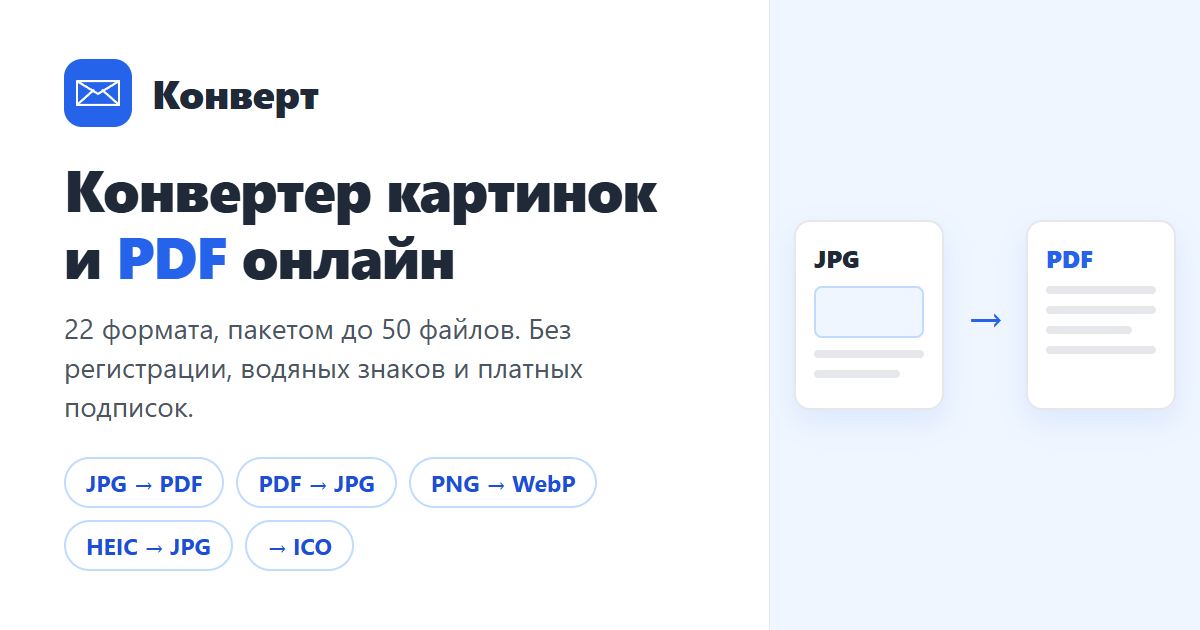
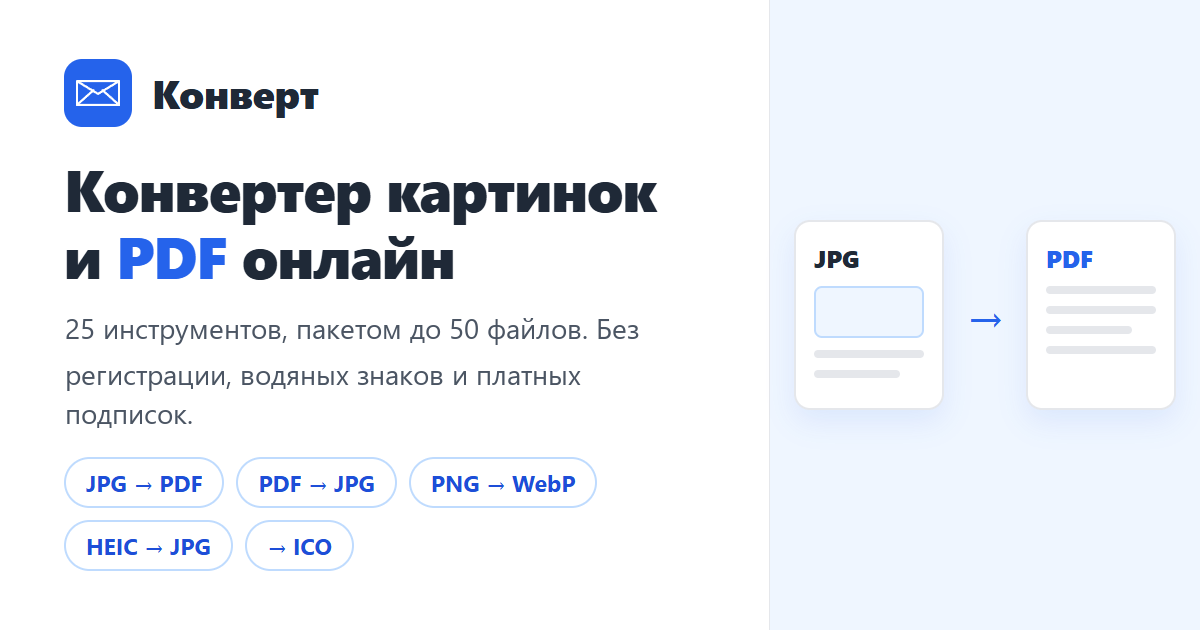
feat: add tiff-to-pdf and bmp-to-pdf tools and update og-image

Changed region(s): [[0.0308, 0.573, 0.4933, 0.6937], [0.0617, 0.4825, 0.555, 0.5429]]

diff --git a/frontend/src/config/tools.js b/frontend/src/config/tools.js
@@ -158,6 +158,82 @@ export const SUPPORTED_TOOLS = {
       },
     ],
   },
+  'tiff-to-pdf': {
+    source: 'tiff',
+    target: 'pdf',
+    sourceName: 'TIFF',
+    targetName: 'PDF',
+    accept: '.tiff,.tif',
+    maxFiles: 20,
+    icon: '📑',
+    category: 'pdf',
+    description: 'Объединяйте многостраничные сканы и файлы TIFF в один компактный PDF.',
+    steps: [
+      'Загрузите файлы TIFF или TIF — перетащите сканы в окно конвертера или выберите на компьютере (до 20 файлов).',
+      'Настройте порядок страниц перетаскиванием и нажмите «Конвертировать»: все сканы объединятся в книжный формат A4.',
+      'Скачайте готовый PDF: изображения собраны в единый аккуратный документ, готовый к отправке или печати.',
+    ],
+    about: [
+      'Формат TIFF (Tagged Image File Format) традиционно применяется в полиграфии, инженерных чертежах и офисных сканерах благодаря сохранению максимальной детализации без потерь. Однако файлы TIFF имеют большой вес, не поддерживаются многими мобильными устройствами и редко принимаются веб-формами госорганов. Наш онлайн-конвертер решает эту проблему, преобразуя сканы TIFF в общепринятый компактный формат PDF.',
+      'Каждое изображение TIFF помещается на отдельный лист стандарта A4 (210×297 мм) с сохранением исходных пропорций и ориентации. Растровые данные переносятся без ухудшения четкости, поэтому мелкий текст договоров, печати и штампы остаются идеально разборчивыми. Вы можете загрузить до 20 файлов общим весом до 50 МБ и объединить их в один многостраничный PDF-файл бесплатно и без регистрации.',
+    ],
+    faq: [
+      {
+        q: 'Как конвертировать скан TIFF в формат PDF онлайн?',
+        a: 'Добавьте один или несколько файлов .tiff/.tif в зону загрузки, выстройте нужный порядок страниц и нажмите «Конвертировать». Через несколько секунд вы сможете скачать готовый PDF-документ.',
+      },
+      {
+        q: 'Поддерживается ли объединение нескольких TIFF в один PDF?',
+        a: 'Да, вы можете загрузить до 20 файлов TIFF одновременно (общим объемом до 50 МБ). Все они будут объединены в один многостраничный PDF в заданном вами порядке.',
+      },
+      {
+        q: 'Сохранится ли четкость текста и печатей при конвертации?',
+        a: 'Да, алгоритм переносит растровое изображение в PDF без повторного пережатия с потерями. Текст, подписи, таблицы и штампы сохраняют исходную четкость сканирования.',
+      },
+      {
+        q: 'Подойдет ли готовый PDF для отправки в налоговую или суд?',
+        a: 'Да, на выходе формируется стандартный PDF-документ со страницами книжного формата A4, полностью соответствующий требованиям электронного документооборота и госуслуг.',
+      },
+    ],
+  },
+  'bmp-to-pdf': {
+    source: 'bmp',
+    target: 'pdf',
+    sourceName: 'BMP',
+    targetName: 'PDF',
+    accept: '.bmp',
+    maxFiles: 20,
+    icon: '📐',
+    category: 'pdf',
+    description: 'Преобразуйте несжатые растровые изображения BMP в удобный документ PDF.',
+    steps: [
+      'Выберите файлы BMP на диске или перетащите их мышью в форму загрузки — до 20 изображений за раз.',
+      'Упорядочите страницы при необходимости и нажмите «Конвертировать»: каждый BMP-кадр займет свою страницу A4.',
+      'Скачайте готовый PDF файл: вы получаете единый компактный документ вместо разрозненных тяжелых файлов BMP.',
+    ],
+    about: [
+      'Формат BMP (Bitmap Picture) хранит изображение в виде несжатой матрицы пикселей, из-за чего файлы имеют огромный размер и неудобны для пересылки по почте или загрузки на сайты. Конвертация BMP в PDF позволяет упаковать тяжелые изображения в стандартизированный цифровой контейнер с оптимизацией размера, сохраняя при этом каждый пиксель исходника.',
+      'В готовом документе все страницы имеют книжный формат A4. Изображение вписывается в лист целиком с сохранением пропорций, свободные поля остаются белыми. Инструмент отлично подходит для оцифрованных схем, скриншотов и графиков. За одну операцию можно объединить до 20 файлов BMP общим объемом до 50 МБ.',
+    ],
+    faq: [
+      {
+        q: 'Зачем конвертировать BMP в PDF?',
+        a: 'Файлы BMP занимают очень много дискового пространства и часто не открываются на смартфонах. Формат PDF уменьшает итоговый размер для пересылки и открывается абсолютно на любом устройстве.',
+      },
+      {
+        q: 'Сколько файлов BMP можно объединить в один PDF?',
+        a: 'Вы можете добавить до 20 изображений BMP общим объемом до 50 МБ за один сеанс. Они соберутся в единый многостраничный документ.',
+      },
+      {
+        q: 'Ухудшится ли качество графики при переносе в PDF?',
+        a: 'Нет, растровые данные встраиваются в PDF в исходном разрешении без искажений и артефактов сжатия.',
+      },
+      {
+        q: 'Можно ли изменить последовательность страниц в документе?',
+        a: 'Да, в списке добавленных файлов строки можно свободно перетаскивать мышью или касанием на смартфоне, чтобы задать нужную очередность страниц.',
+      },
+    ],
+  },
   'pdf-to-jpg': {
     source: 'pdf',
     target: 'jpg',

diff --git a/frontend/src/components/MainLayout.jsx b/frontend/src/components/MainLayout.jsx
@@ -153,7 +153,7 @@ export default function MainLayout({ children }) {
   // Панели меню всегда смонтированы, а закрытая скрывается через visibility, а не
   // размонтированием: prerender отдаёт статический HTML без JavaScript, и если
   // ссылки живут только в открытом дропдауне, робот видит сайт из трёх страниц —
-  // 23 инструмента остаются без единственной внутренней ссылки. visibility:hidden
+  // 25 инструментов остаются без единственной внутренней ссылки. visibility:hidden
   // при этом снимает их и из Tab-порядка, и с пути курсора.
   const dropdownPanelClass = (open) =>
     `absolute left-1/2 -translate-x-1/2 mt-3 w-[25rem] max-h-[70vh] overflow-y-auto grid grid-cols-2 gap-x-2 gap-y-0.5 bg-main rounded-xl border border-ui-border p-2 z-50 text-text-primary shadow-lg [scrollbar-width:thin] [&::-webkit-scrollbar]:w-1 [&::-webkit-scrollbar-track]:bg-transparent [&::-webkit-scrollbar-thumb]:bg-ui-border [&::-webkit-scrollbar-thumb]:rounded-full ${open ? 'visible animate-fadeIn' : 'invisible'}`;

diff --git a/backend/converter/tests.py b/backend/converter/tests.py
@@ -196,6 +196,22 @@ class ImagesToPdfAPITestCase(ConverterAPITestBase):
         self.assertEqual(pdf_content[:4], b'%PDF')
         self.assertEqual(download_response['Content-Type'], 'application/pdf')
 
+    def test_tiff_and_bmp_sources_are_accepted(self):
+        """TIFF и BMP — сканы и растр: страницы tiff-to-pdf и bmp-to-pdf собирают документ."""
+        url = reverse('images_to_pdf')
+        data = {
+            'images': [
+                self.make_upload('scan.tiff', 'TIFF'),
+                self.make_upload('drawing.bmp', 'BMP'),
+            ]
+        }
+
+        download_response = self.submit_and_download(url, data)
+        pdf_content = b''.join(download_response.streaming_content)
+
+        self.assertEqual(pdf_content[:4], b'%PDF')
+        self.assertEqual(download_response['Content-Type'], 'application/pdf')
+
     def test_pdf_all_pages_use_portrait_a4(self):
         """Portrait и landscape изображения → все страницы portrait A4."""
         url = reverse('images_to_pdf')

diff --git a/README.md b/README.md
@@ -2,7 +2,7 @@
 
 Рабочий сайт: https://convefy.ru — это тот же код, что в репозитории.
 
-23 инструмента на сайте (26 индексируемых страниц): jpg→pdf, png→jpg, heic→pdf, конвертация в
+25 инструментов на сайте (28 индексируемых страниц): jpg→pdf, png→jpg, heic→pdf, конвертация в
 webp, PDF в картинки и другие. Файл загружается на сервер, там собирается задача Celery, статус
 опрашивает фронтенд, готовый результат отдаётся на скачивание. Рабочие файлы живут 55 минут
 (`TMP_FILE_TTL_SECONDS`) и удаляются планировщиком.

diff --git a/docs/ARCHITECTURE.md b/docs/ARCHITECTURE.md
@@ -163,7 +163,7 @@ Windows даёт `PermissionError`, а не `IsADirectoryError`, и честна
 
 | Файл | Роль |
 |---|---|
-| `src/config/tools.js` | 23 инструмента: и поведение формы, и весь SEO-текст |
+| `src/config/tools.js` | 25 инструментов: и поведение формы, и весь SEO-текст |
 | `src/services/api.js` | контракт с бэкендом: отправка, опрос, скачивание, склейка батча |
 | `src/AppRoutes.jsx` | дерево маршрутов без роутера — его используют и браузер, и сборщик |
 | `src/entry-server.jsx` | `renderRoute(url)` → `renderToString` + `StaticRouter` |
